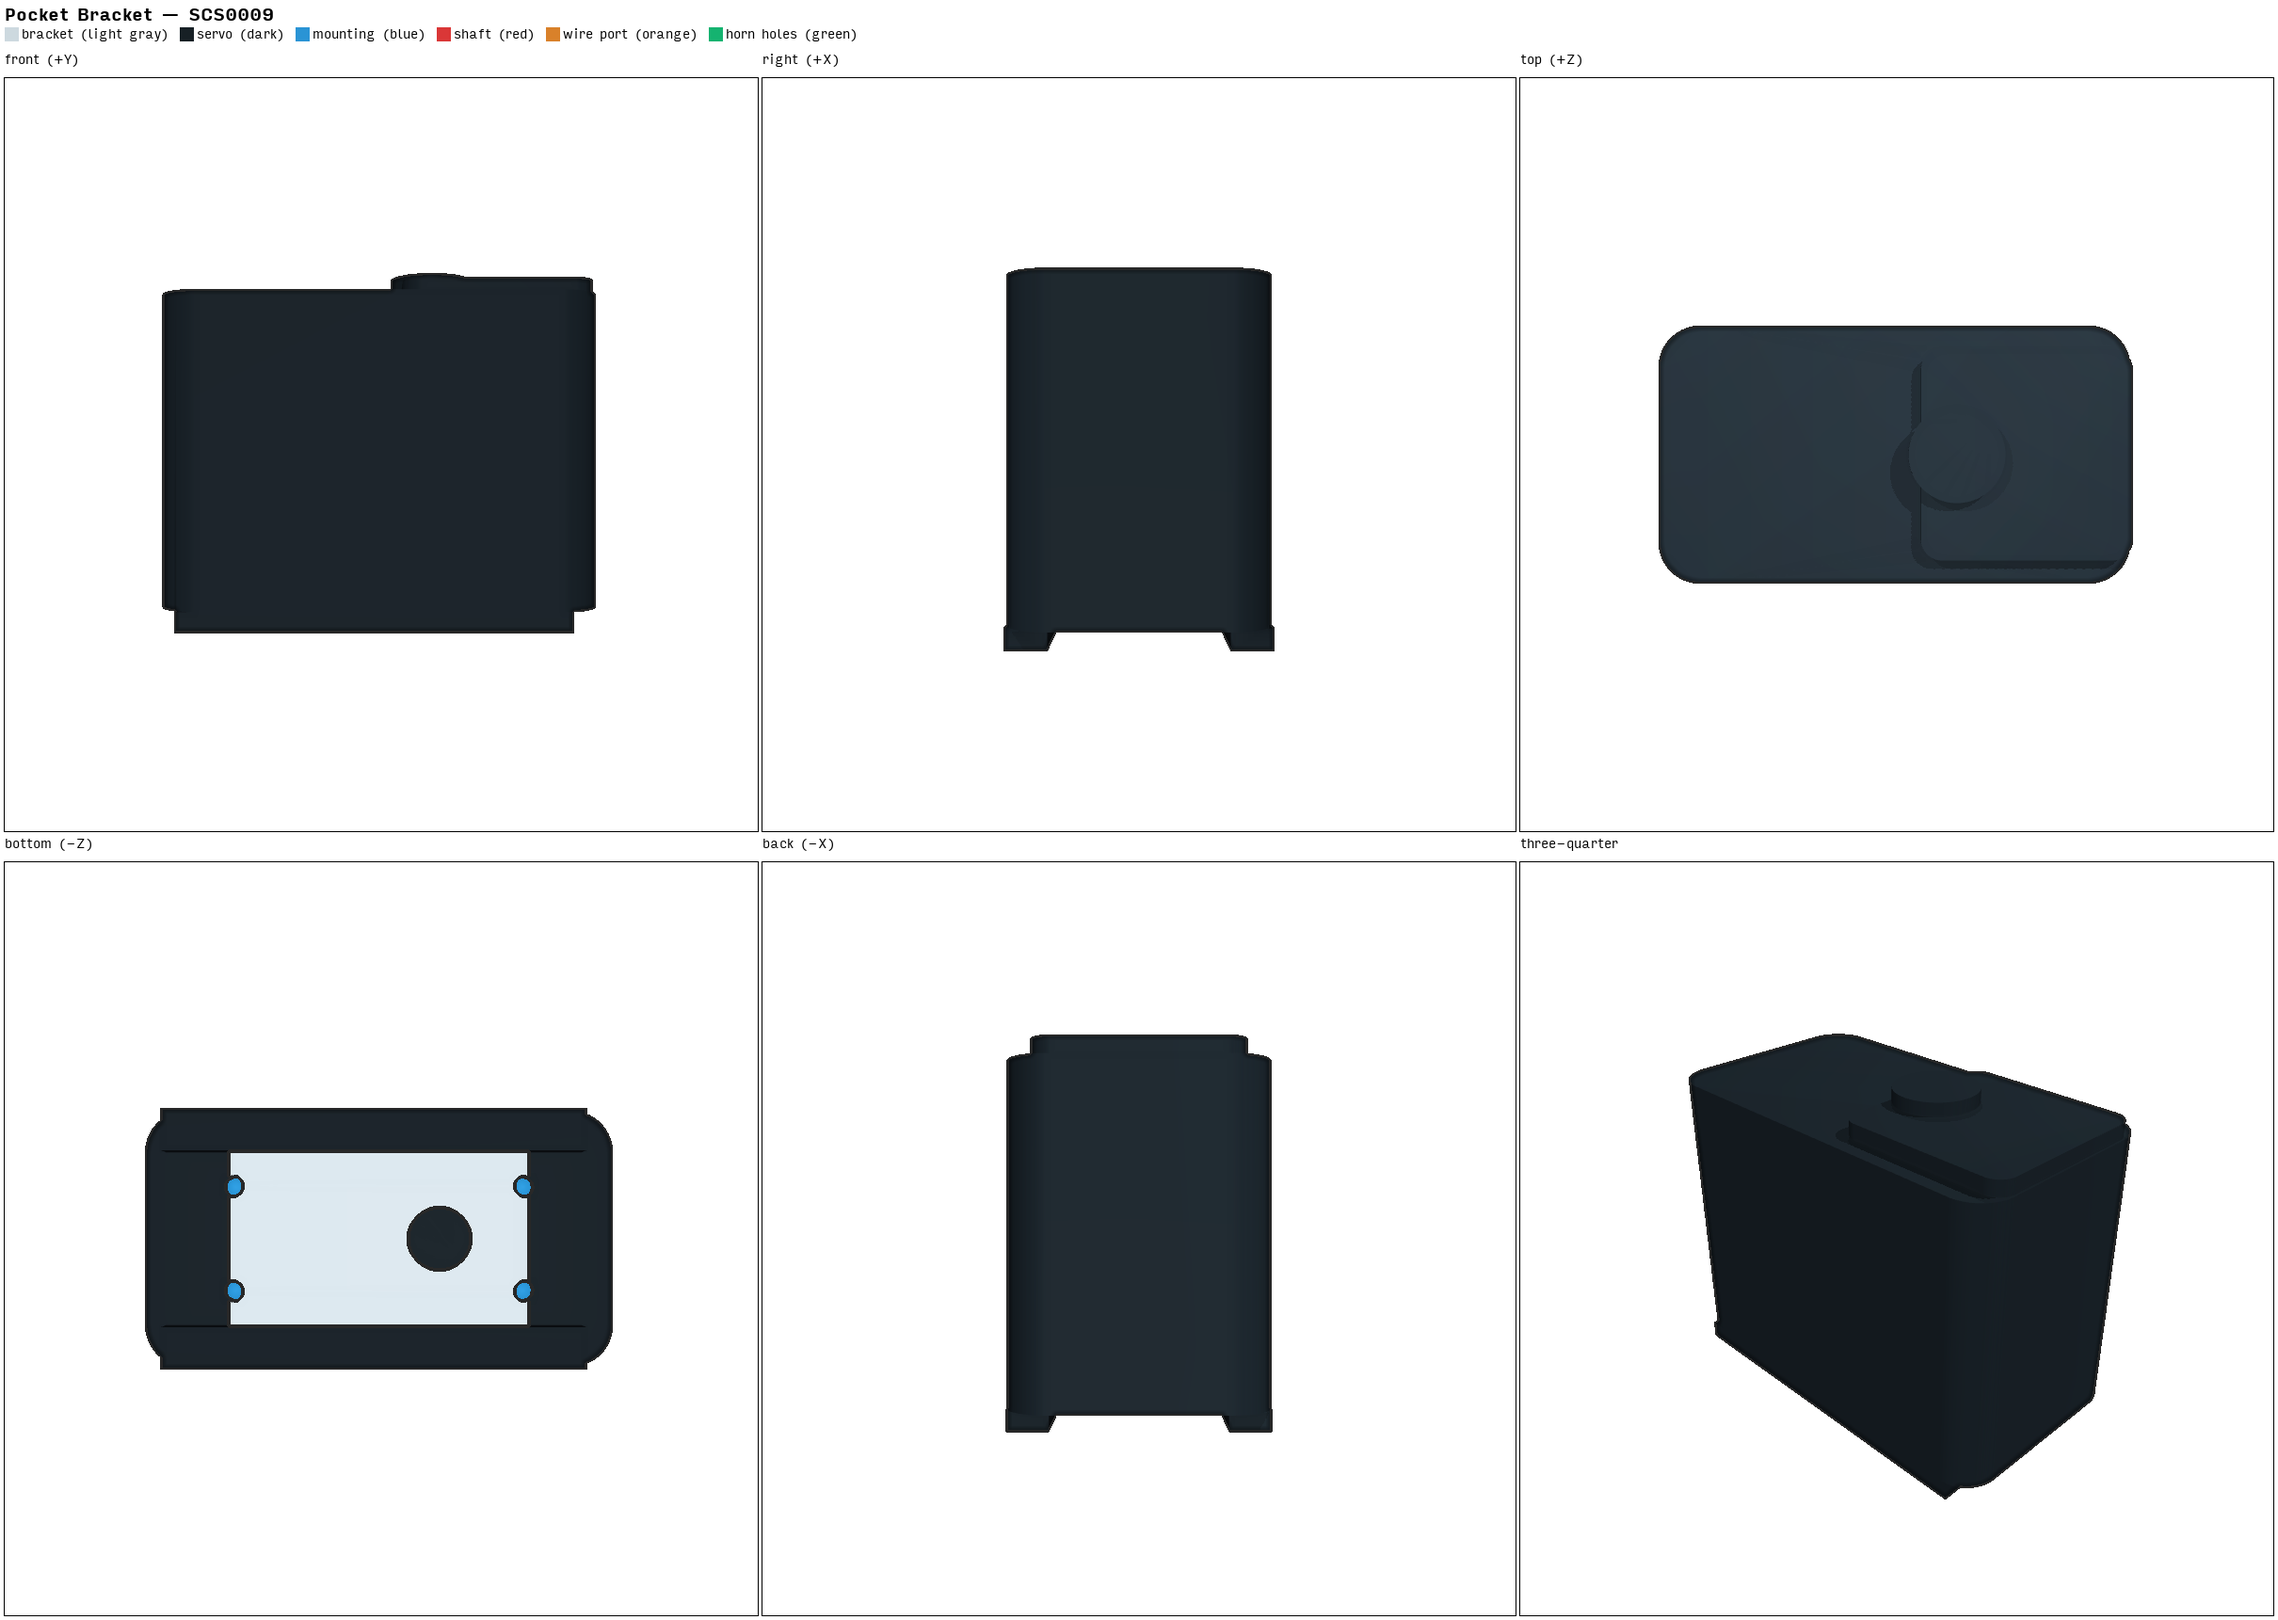
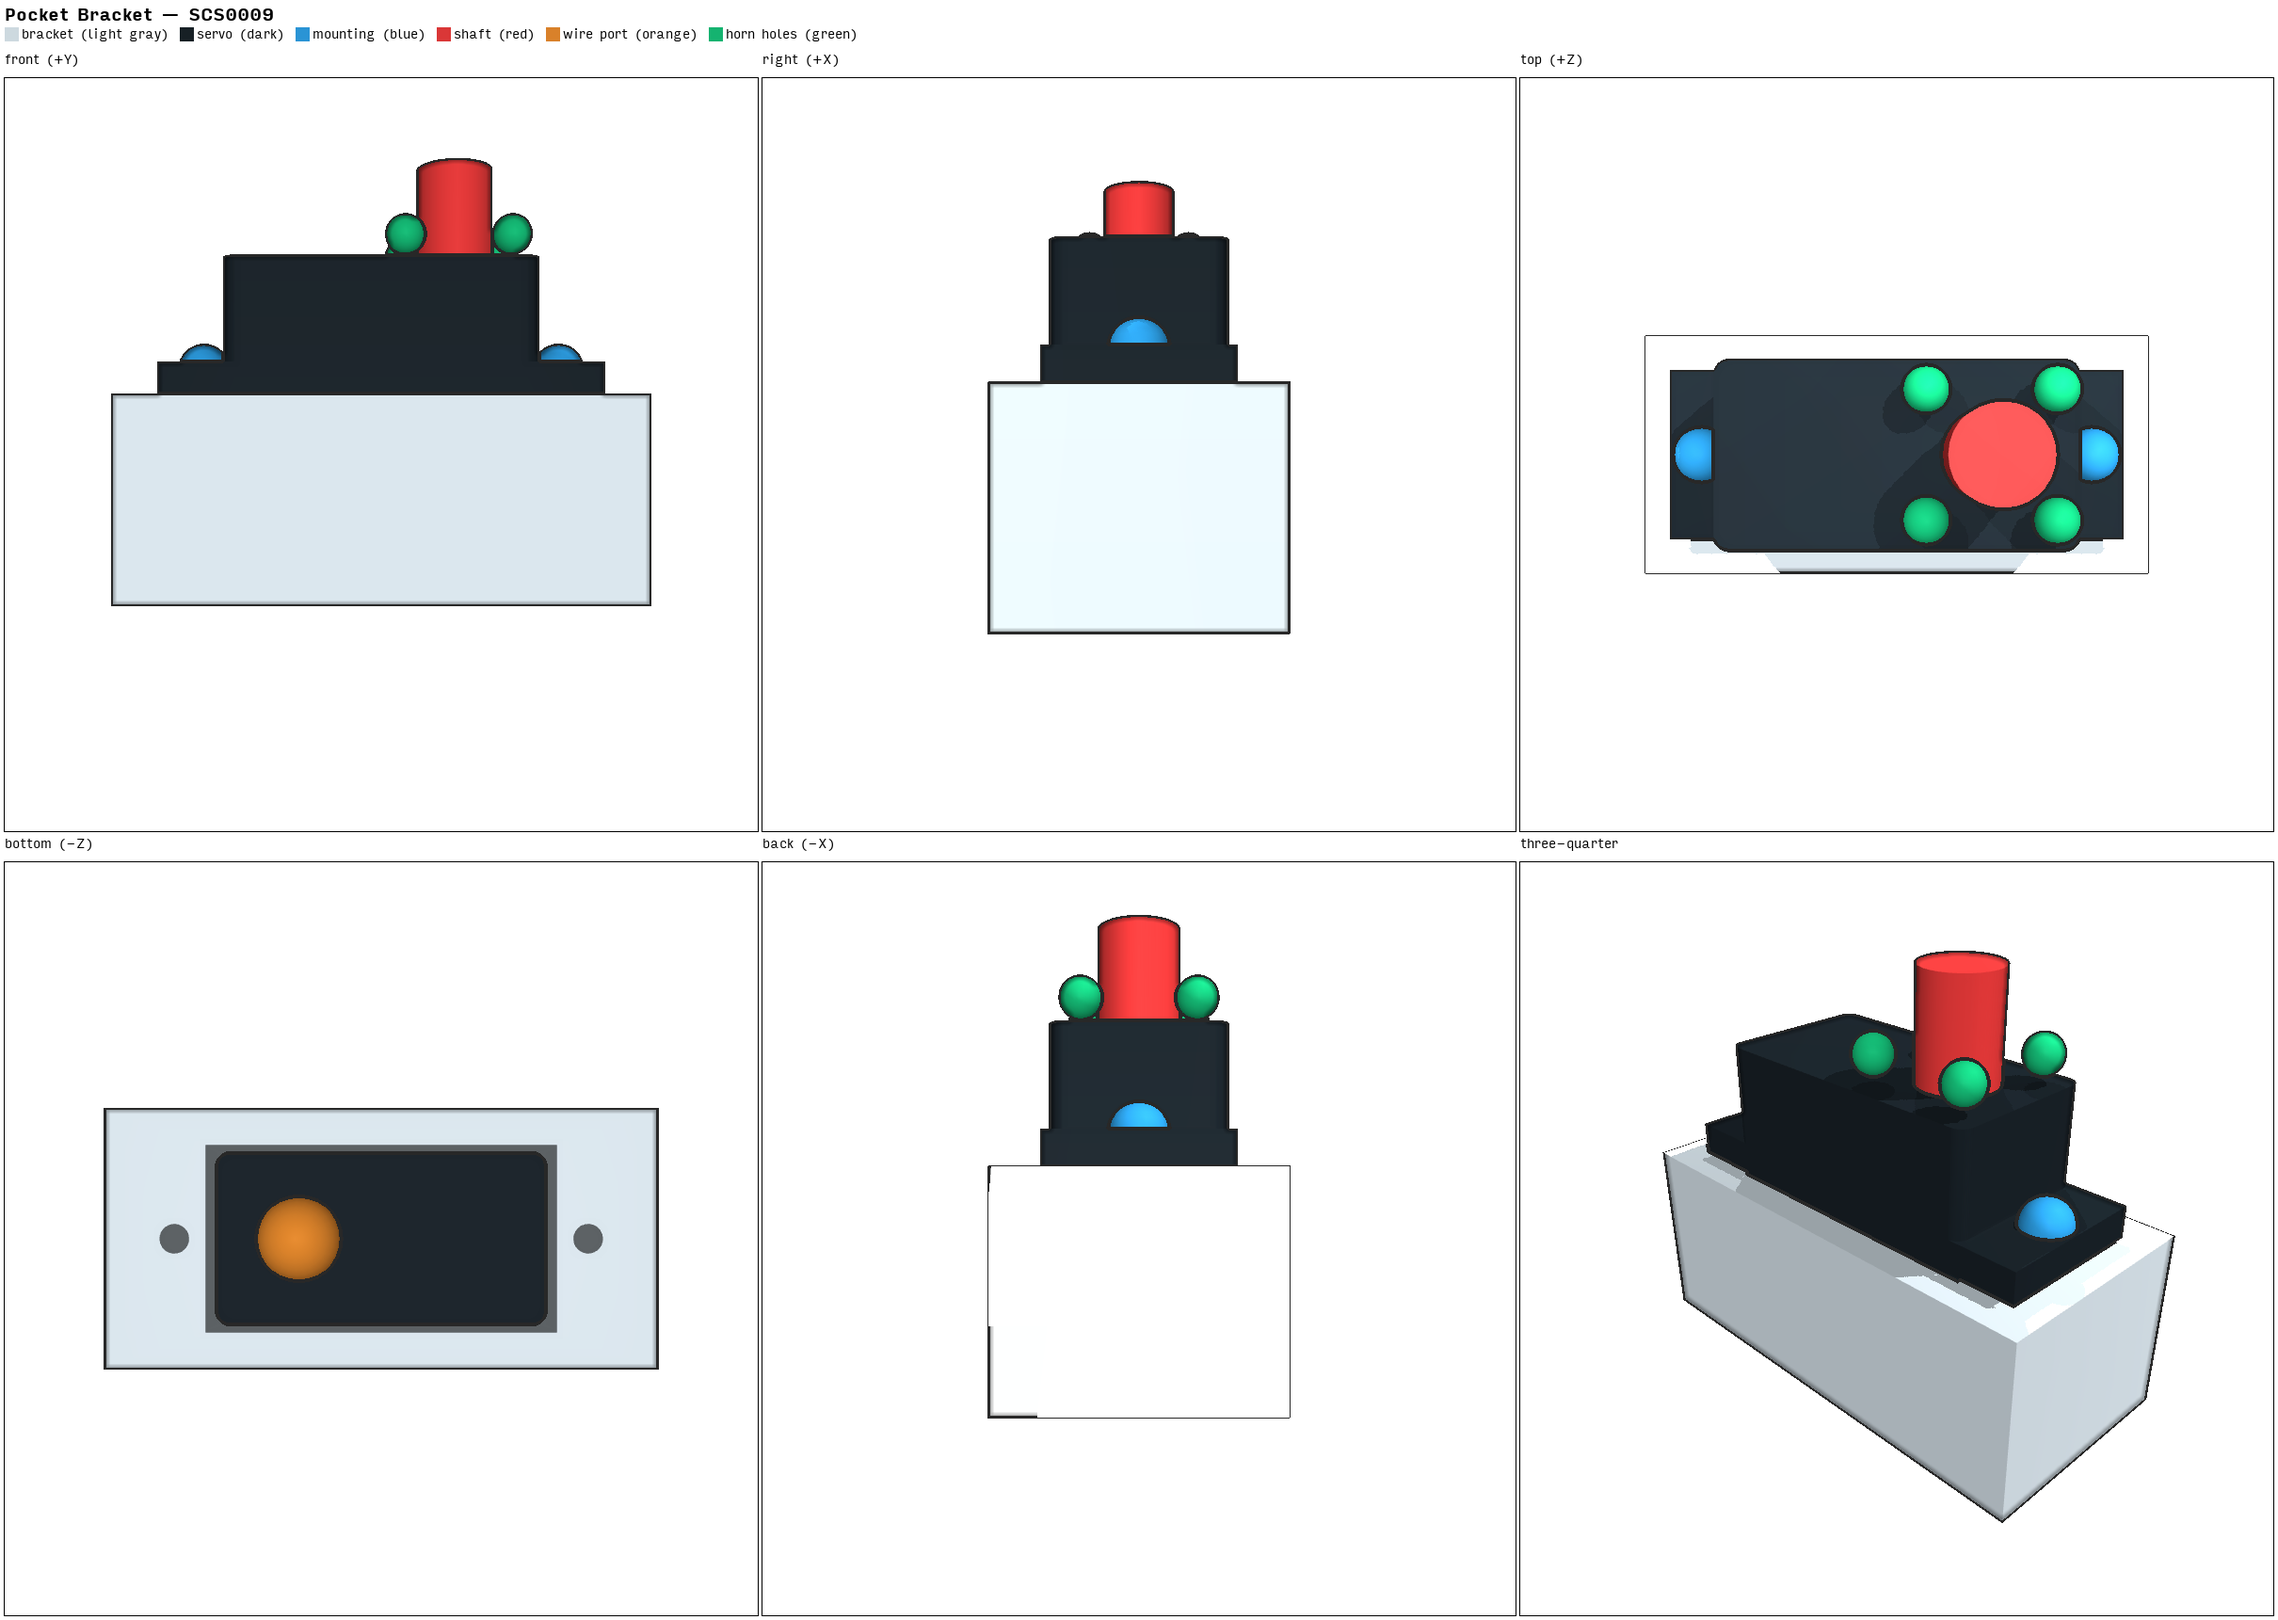
feat: add SCS0009 micro servo bracket (U-tray with ear tab ledges)
Simple U-shaped tray that wraps only the lower portion of the servo
body, stopping just below the wing tabs. The servo drops in from
above, the ear tabs overhang the bracket walls and get screwed down
from above with M2 fasteners. Upper body, shaft, and horn are fully
exposed.

Also adds form-factor dispatch in bracket_solid() and
bracket_envelope() so the SCS0009 bracket is used automatically
when a bot design references this servo.

diff --git a/botcad/bracket.py b/botcad/bracket.py
@@ -193,6 +193,8 @@ def bracket_envelope(servo: ServoSpec, spec: BracketSpec | None = None):
     """
     if spec is None:
         spec = BracketSpec()
+    if servo.name == "SCS0009":
+        return _scs0009_bracket_envelope(servo, spec)
     outer, _, _ = _bracket_outer(servo, spec, insertion_clearance=0.200)
     return outer
 
@@ -212,6 +214,9 @@ def bracket_solid(servo: ServoSpec, spec: BracketSpec | None = None):
 
     if spec is None:
         spec = BracketSpec()
+
+    if servo.name == "SCS0009":
+        return _scs0009_bracket_solid(servo, spec)
 
     outer, ear_bottom_z, bd = _bracket_outer(servo, spec)
     body_x, body_y, body_z = bd
@@ -576,6 +581,136 @@ def _scs0009_solid(servo: ServoSpec):
             body = _as_solid(body.cut(hole))
 
     return body
+
+
+# ── SCS0009 micro servo bracket (simple wrap-around cradle) ────────────
+#
+# The SCS0009 is small enough that a single-piece bracket suffices.
+# The servo drops in from +Z, the side ear tabs rest on ledges, and
+# screws go down through the tabs into the bracket.  A shaft clearance
+# hole on top lets the horn rotate freely.  Cable exits out the -Z face.
+#
+# Cross-section looking from +Y, X horizontal, Z vertical:
+#
+#     WWWW===WWWWWWWWWWWW       <- wall + shaft hole + wall
+#     W   SSSSSSSSSSSS  W       <- servo body (shaft boss at +X)
+#     W   SSSSSSSSSSSS  W
+#     W===SSSSSSSSSSSS==W       <- ear tab ledges (ears sit here)
+#     W   SSSSSSSSSSSS  W
+#     W   SSSSSSSSSSSS  W
+#     WWWWWWW====WWWWWWWW       <- wall + cable slot + wall
+#
+
+
+@lru_cache(maxsize=32)
+def _scs0009_bracket_solid(servo: ServoSpec, spec: BracketSpec):
+    """Build a bracket for the SCS0009 micro servo.
+
+    The bracket is a U-shaped tray that wraps only the lower portion of
+    the servo body — from the bottom up to the ear tabs.  The servo
+    drops in from above, the wing tabs overhang the bracket walls, and
+    screws through the tabs clamp it in place.  Everything above the
+    tabs (upper body, shaft, horn) is fully exposed.
+
+    Cross-section looking from +Y, X horizontal, Z vertical:
+
+              (exposed — shaft + upper body)
+        ====TTTTTTTTTTTT====    <- ear tabs rest on bracket walls
+        W   SSSSSSSSSSSS   W    <- servo body (lower portion)
+        W   SSSSSSSSSSSS   W
+        WWWWWWWW====WWWWWWWW    <- bottom wall + cable slot
+    """
+    from build123d import Align, Box, Cylinder, Location
+
+    body_x, body_y, body_z = servo.effective_body_dims
+    tol = spec.tolerance
+    wall = spec.wall
+
+    # Ear tab geometry (must match _scs0009_solid)
+    ear_ext = 0.00465    # tab extension beyond body in ±X
+    ear_thick = 0.0025   # tab thickness in Z
+    ear_top_z = body_z / 2 - 0.00775  # top of ear tab
+
+    # --- Bracket extent ---
+    # X: wide enough for body + ear tabs + wall
+    outer_x = body_x + 2 * ear_ext + 2 * wall
+    # Y: body width + tolerance + wall
+    outer_y = body_y + 2 * (tol + wall)
+    # Z: from bottom of body up to just below the ear tabs.
+    # The tabs sit on top of the bracket walls and overhang them.
+    ear_bot_z = ear_top_z - ear_thick  # bottom face of the ear tab
+    outer_top_z = ear_bot_z  # bracket walls stop right where the tabs begin
+    outer_bot_z = -body_z / 2 - wall
+    outer_z = outer_top_z - outer_bot_z
+    outer_cz = (outer_top_z + outer_bot_z) / 2
+
+    outer = Box(outer_x, outer_y, outer_z, align=(Align.CENTER, Align.CENTER, Align.CENTER))
+    outer = outer.locate(Location((0, 0, outer_cz)))
+
+    # --- Body pocket (open on +Z for servo insertion) ---
+    pocket_x = body_x + 2 * tol
+    pocket_y = body_y + 2 * tol
+    pocket_z = outer_z + 0.002  # through the full height (open top)
+    pocket = Box(pocket_x, pocket_y, pocket_z, align=(Align.CENTER, Align.CENTER, Align.CENTER))
+    pocket = pocket.locate(Location((0, 0, outer_cz)))
+    shell = outer - pocket
+
+    # --- M2 through-holes at each ear position ---
+    for ear in servo.mounting_ears:
+        hole = Cylinder(
+            ear.diameter / 2,
+            outer_z + 0.002,
+            align=(Align.CENTER, Align.CENTER, Align.CENTER),
+        )
+        hole = hole.locate(Location((ear.pos[0], ear.pos[1], outer_cz)))
+        shell = shell - hole
+
+    # --- Cable exit slot (-Z face) ---
+    if servo.connector_pos is not None:
+        _cx, cy, _cz = servo.connector_pos
+        slot_w = 0.006  # 6mm wide
+        slot_h = 0.004  # 4mm tall
+        slot_depth = wall + tol + 0.002
+        slot = Box(
+            slot_w,
+            slot_h,
+            slot_depth,
+            align=(Align.CENTER, Align.CENTER, Align.CENTER),
+        )
+        slot_z = outer_bot_z + slot_depth / 2 - 0.001
+        slot = slot.locate(Location((0, cy, slot_z)))
+        shell = shell - slot
+
+    return _as_solid(shell)
+
+
+@lru_cache(maxsize=32)
+def _scs0009_bracket_envelope(servo: ServoSpec, spec: BracketSpec):
+    """Envelope for cutting the SCS0009 bracket footprint from the parent body.
+
+    Same outer box as the bracket, extended 200mm in +Z for insertion clearance.
+    """
+    from build123d import Align, Box, Location
+
+    body_x, body_y, body_z = servo.effective_body_dims
+    tol = spec.tolerance
+    wall = spec.wall
+
+    ear_ext = 0.00465
+    ear_thick = 0.0025
+    ear_top_z = body_z / 2 - 0.00775
+    ear_bot_z = ear_top_z - ear_thick
+
+    outer_x = body_x + 2 * ear_ext + 2 * wall
+    outer_y = body_y + 2 * (tol + wall)
+    outer_top_z = ear_bot_z + 0.200  # insertion clearance
+    outer_bot_z = -body_z / 2 - wall
+    outer_z = outer_top_z - outer_bot_z
+    outer_cz = (outer_top_z + outer_bot_z) / 2
+
+    outer = Box(outer_x, outer_y, outer_z, align=(Align.CENTER, Align.CENTER, Align.CENTER))
+    outer = outer.locate(Location((0, 0, outer_cz)))
+    return outer
 
 
 # ── Coupler-style bracket: cradle (static) + coupler (moving) ──────────
